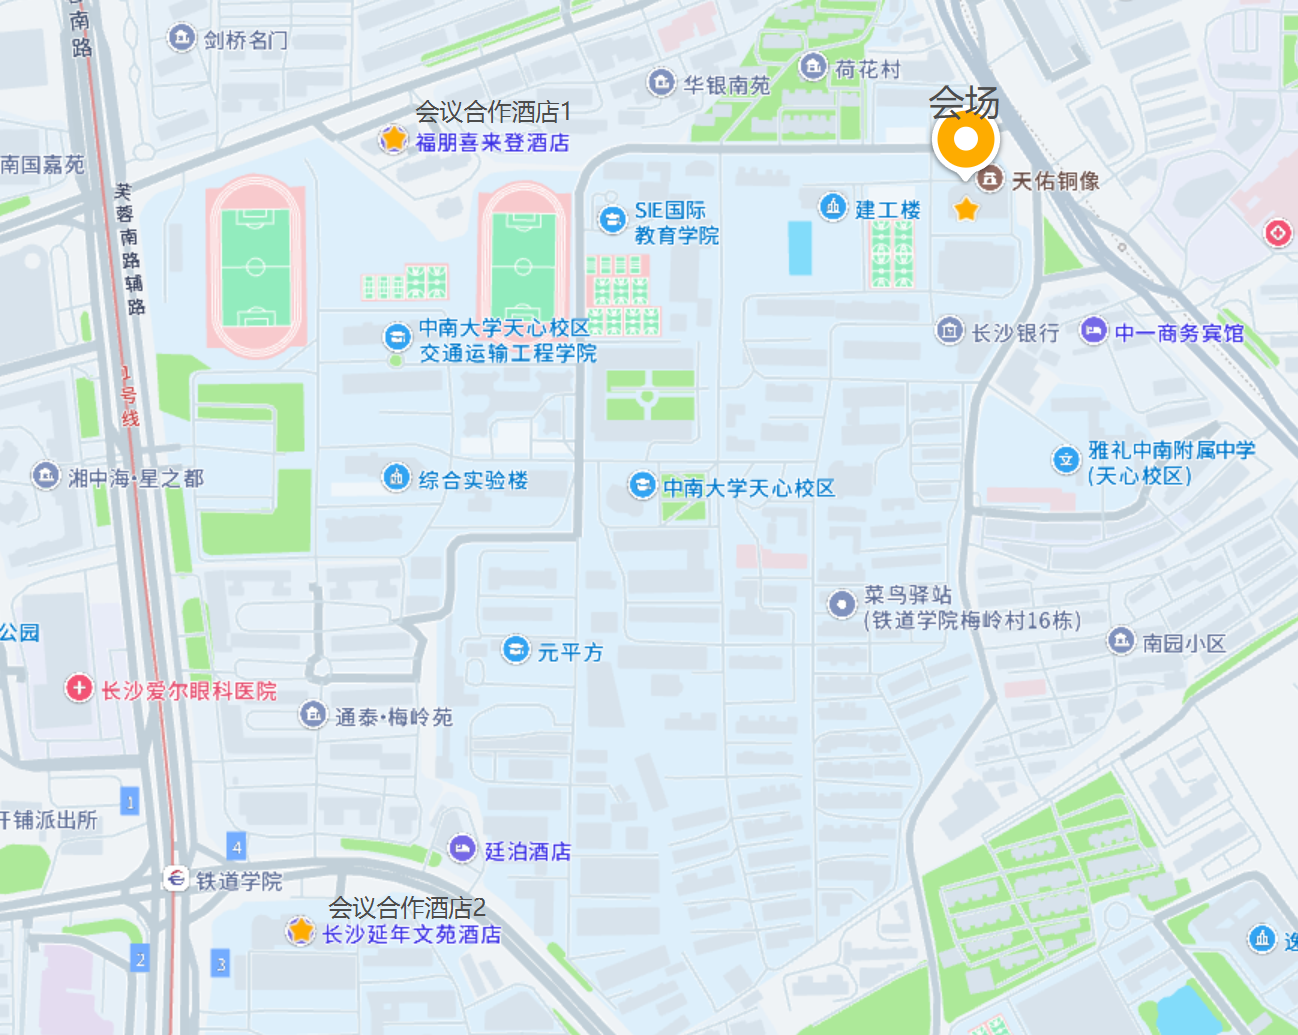
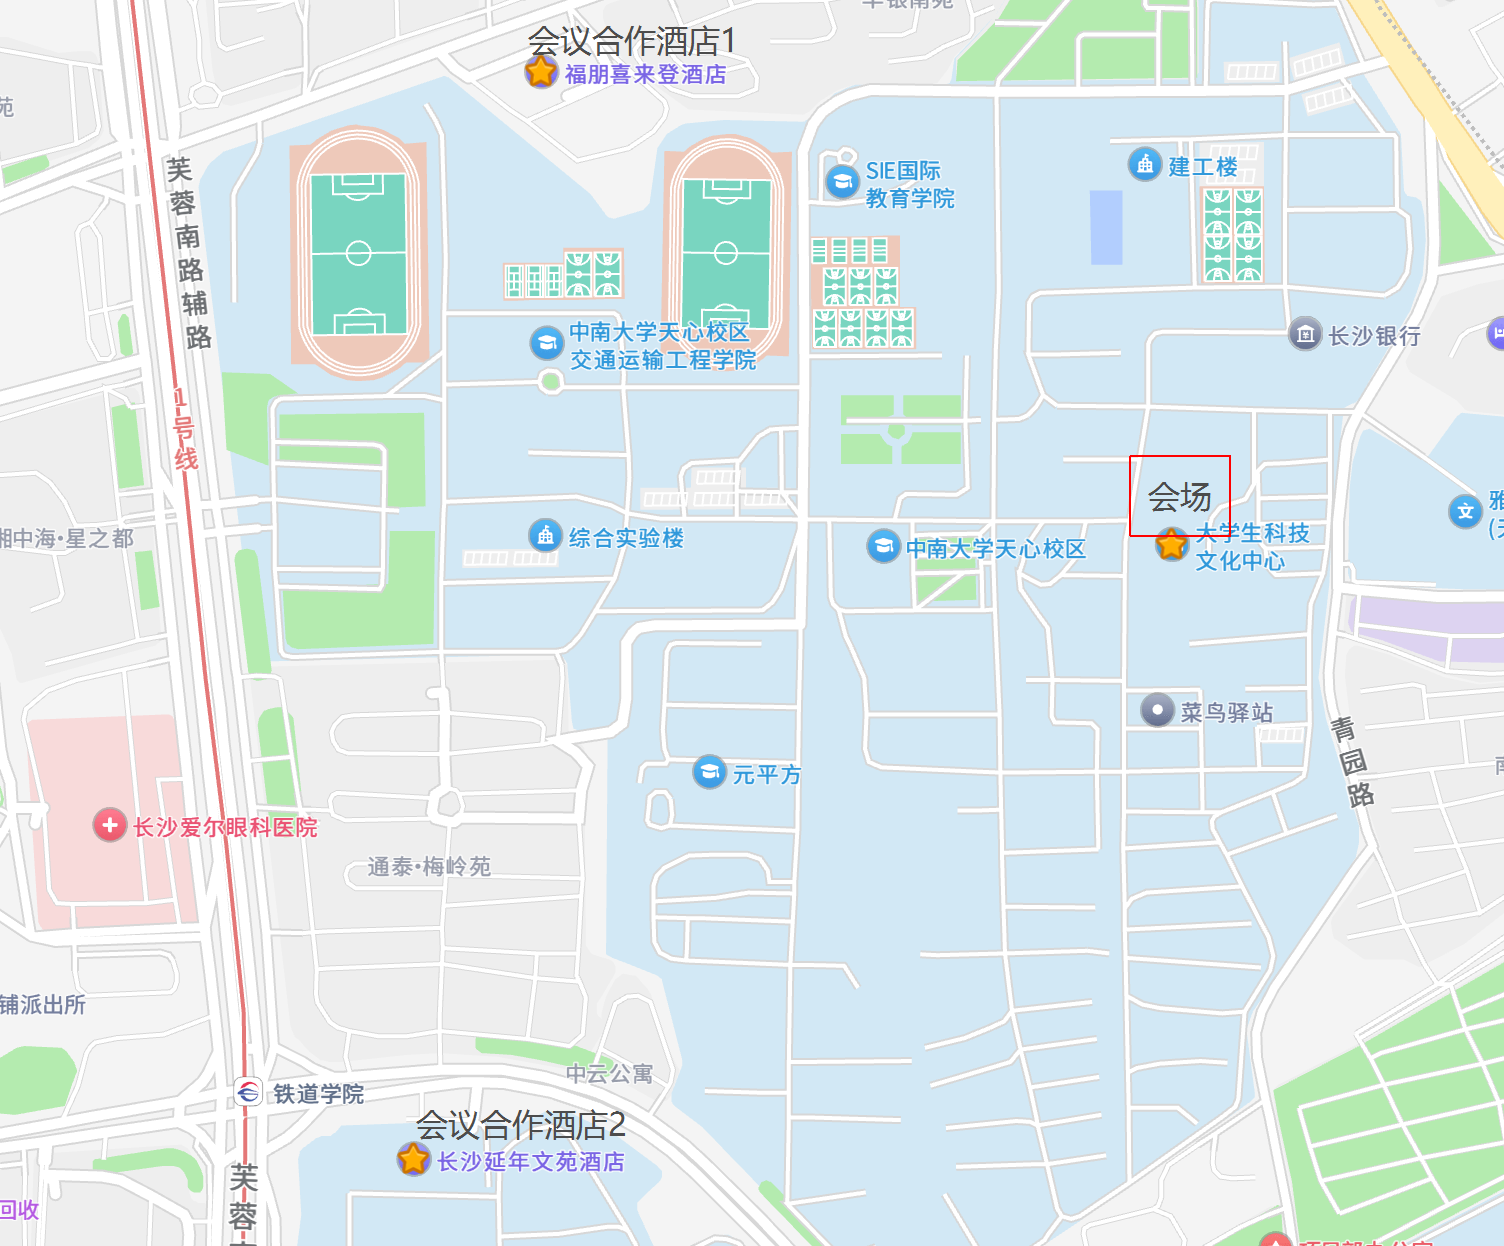
修改会场相关信息

diff --git a/neighbor.html b/neighbor.html
@@ -142,7 +142,7 @@
               <p><strong>会议酒店1：</strong>长沙天心福朋喜来登酒店</p>
               <ul>
                 <li><span class="item-label">酒店地址：</span><span class="item-content">长沙天心福朋喜来登酒店(中南大学铁道学院店)<br>长沙市天心区竹塘西路179号</span></li>
-                <li><span class="item-label">会场距离：</span><span class="item-content">距离礼堂800米，步行约十分钟。</span></li>
+                <li><span class="item-label">会场距离：</span><span class="item-content">距离会场约1.2公里，步行约十五分钟。</span></li>
                 <li><span class="item-label">协议价格：</span><span class="item-content">350/晚（单双同价），带早餐。</span></li>
                 <li><span class="item-label">联系人吴经理：</span><span class="item-content">18207482616</span></li>
               
@@ -155,7 +155,7 @@
               <p><strong>会议酒店2：</strong>长沙延年文苑酒店</p>
               <ul>
                 <li><span class="item-label">酒店地址：</span><span class="item-content">长沙延年文苑酒店(中南林业科技大学铁道学院地铁站店)<br>长沙市天心区林大路12号(铁道学院地铁站3号口步行150米)</span></li>
-                <li><span class="item-label">会场距离：</span><span class="item-content">距离礼堂约1.6公里。</span></li>
+                <li><span class="item-label">会场距离：</span><span class="item-content">距离会场约1.7公里，步行约二十分钟。</span></li>
                 <li><span class="item-label">协议价格：</span><span class="item-content">320/晚（单双同价），带早餐。</span></li>
                 <li><span class="item-label">联系人杨经理：</span><span class="item-content">19974897850</span></li>
 
@@ -167,7 +167,8 @@
 
           </tbody>
         </table>
-
+        <p><strong>Tips：</strong></p>
+        <p>会议酒店均会安排接驳车往返酒店与现场，接驳车日程表后续会发布在本页。</p>
       </article>
     </div>
   </div>

diff --git a/venue.html b/venue.html
@@ -40,10 +40,10 @@
   <div class="wrapper">
     <div class="post">
       <article class="post-content">
-        <h1 id="title">会场：中南大学天心校区礼堂</h1>
+        <h1 id="title">会场：中南大学天心校区大学生科技文化中心</h1>
         <br/>
         <h2><strong>地址</strong></h2>
-        <p>长沙市天心区韶山南路68号</p>
+        <p>长沙市天心区中南大学铁道学院建筑与艺术学院南门东200米</p>
 
         <br/>
         <h2><strong>交通路线</strong></h2>
